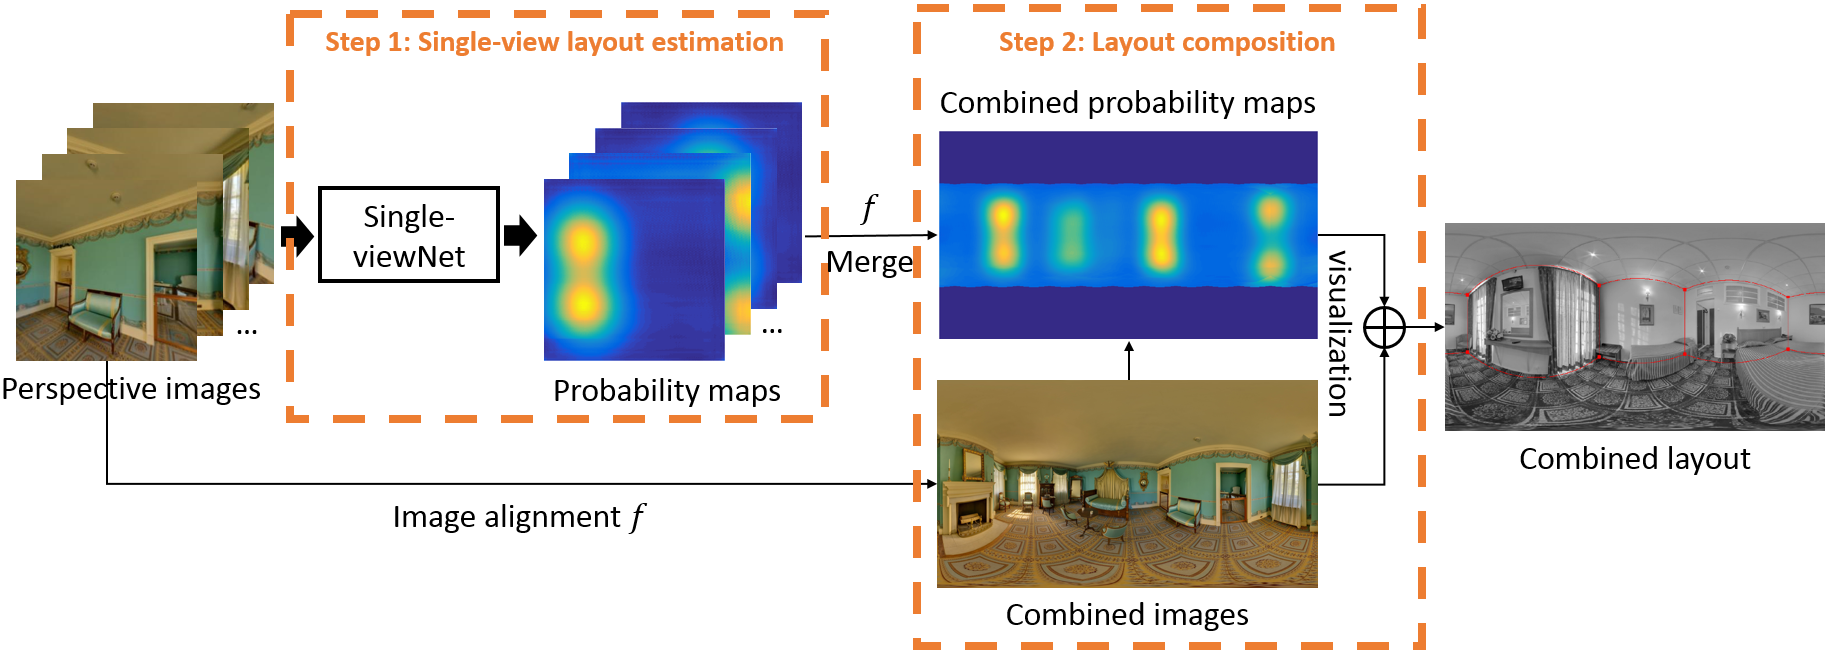
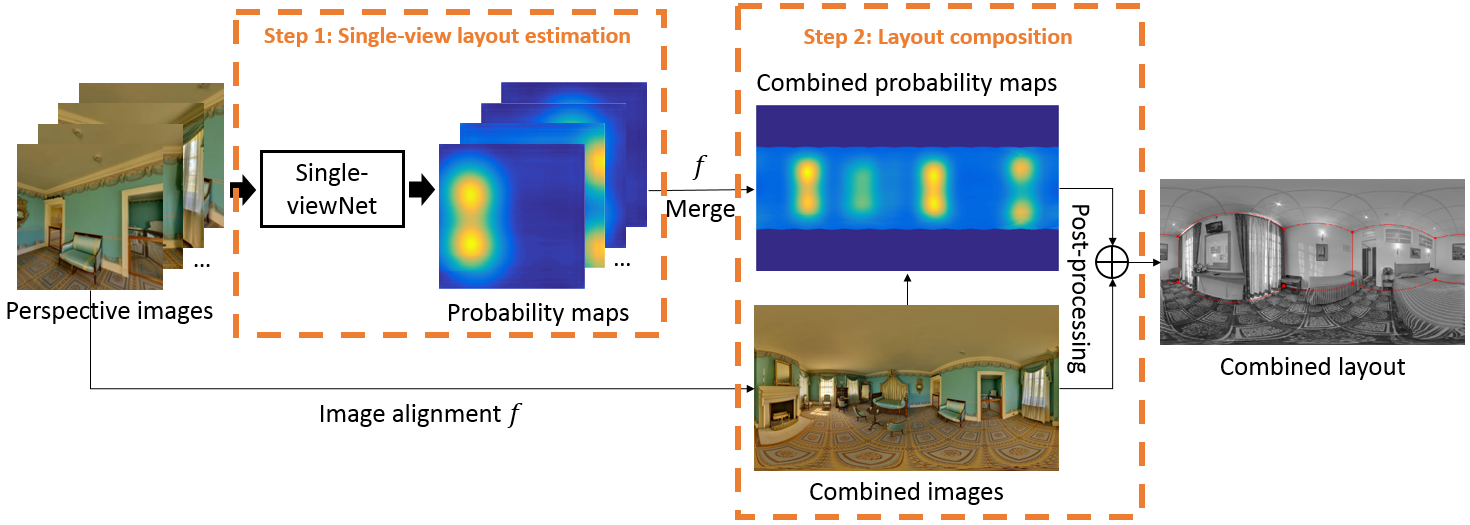
adaptation

diff --git a/paper/approach.tex b/paper/approach.tex
@@ -3,27 +3,28 @@
 
 \xj{introduce the new representation first.}
 \xj{Add a new figure to explain the representation here. Show different room types and our representation. Add a paragraph here.}
-%
-Given multiple overlapping images of an indoor scene from different views, our approach produces the combined room layout represented by several room corners, as shown in Fig. \ref{fig:partial1}. 
 %\xj{Explain more details of this new representation: add a figure. and more constraints? say, there are at most four points on each image? Split them to upper/lower parts?}
+
 Under the Manhattan world assumption \cite{coughlan1999manhattan}, a 3D room can be typically modeled as a cube that can be represented by eight corners.
-The room layout in a single view is the projection of the cube, while only part of it can be visible. 
+The room layout in a single view is the projection of the cube, while only part of it can be visible, as shown in Fig. \ref{fig:representation}(a-c). 
 Intuitively, there should be 0 to 4 room corners visible in a single-view image. 
 %
-%In this section, we are going to recover the room layout for perspective images from different views. 
-Previous DNN-based techniques of room layout estimation typically represent the room layout as a segmentation of semantic surfaces including walls, ceilings and floors~\cite{dasgupta2016delay, ours} or as the semantic boundaries or intersection points among them \cite{ren2016coarse}. 
+Previous DNN-based techniques of room layout estimation typically represent the room layout as a segmentation of semantic surfaces including walls, ceilings and floors~\cite{dasgupta2016delay} or as the semantic boundaries or intersection points among them \cite{ren2016coarse,zhao2017physics,LeeRoomNet17}. 
 %
 These representations have proved valid and reasonable. 
-However, due to the overlaps across views, they all carry too much redundant predictions and are inconvenient for combination under the circumstances of multi-view layout estimation. 
-Out of this reason, we propose a more concise representation of a room layout using the corners only.
-This representation avoids extra efforts on classifying the room layout topology, and can be easily used to integrating multiple views.
 \xj{Why are the previous representation inconvenient? why ours are better? ours are also redundant in multiple views. }
-
+\drf{previous explaination is ambiguous, refined}
+However, they all carry too much redundant predictions that make the combination inconvenient under the circumstances of multi-view layout estimation. Taking the keypoints representation in \cite{LeeRoomNet17} as an example, they need to predict all 6 points in Fig. \ref{fig:representation}(a) first row. But the 4 points on the images boundaries have no semantics in multi-views and are useless for combination. The overlaps across views further exacerbate this problem. Out of this reason, we propose a more concise representation of a room layout using the corners only, as shown in Fig. \ref{fig:representation}(d). 
+This representation avoids extra efforts on classifying the room layout topology, and can be easily used to integrating multiple views.
 %
+
+
 %When the overall FOV of the multi-view images contains the entire room, we can recover the whole-room layout, better viewed in panorama, Fig. \ref{fig:results2}. 
 %
+
 \xj{then pipeline.}
-Fig. \ref{fig:overview} shows the pipeline of our algorithm. 
+Given multiple overlapping images of an indoor scene from different views, our approach produces the combined room layout represented by several room corners, as shown in Fig. \ref{fig:partial2}. The pipeline of our algorithm is depicted in Fig. \ref{fig:overview}. 
+%
 First, we estimate the partial room layout separately in each image using an encoder-decoder structure, as described in Sec. \ref{sec:layout}. 
 Then the estimated partial room layouts are integrated into a combined probability map, based on the geometric transformations between images. 
 We use a linear blending to average the predictions from different views, and select the points of the maximum responses as the room corners, as described in Sec. \ref{sec:merging}. 
@@ -33,9 +34,16 @@ We use a linear blending to average the predictions from different views, and se
 \begin{figure*}[ht]
 	\centering
 	\includegraphics[width=\linewidth]{figs/ppline.png}
-	\caption{Our pipeline consists of two main steps. First, the SVNet is applied to estimate the probability map for each image separately. Secondly, the input multi-view images are composed together according to the \xj{estimated or pre-calibrated?} transformations $f$. We use the same transformations $f$ to generate a combined probability map of the room corners. The final result is obtained by a simple post-processing \xj{no post-processing is shown in the fig.}. }
+	\caption{Our pipeline consists of two main steps. First, the SVNet is applied to estimate the probability map for each image separately. Secondly, the input multi-view images are composed together according to the \xj{estimated or pre-calibrated?} \drf{the camera position is known} transformations $f$. We use the same transformations $f$ to generate a combined probability map of the room corners. The final result is obtained by a simple post-processing. }
 	\label{fig:overview}
 \end{figure*}
+
+\begin{figure}
+	\centering
+	\includegraphics[width=\linewidth]{figs/representation.png}
+	\caption{Two different room types and our new representation. The first three columns are clipped from LSUN specification \cite{zhang2015large} which defines the most common 11 room types. }
+	\label{fig:representation}
+\end{figure}
 
 \subsection{Single-view Layout Estimation}
 \label{sec:layout}
@@ -52,20 +60,18 @@ Obviously, without the extra intersections of two semantic planes on the image b
 %\comments{ motivated by \cite{LeeRoomNet17} and the studies on human pose estimation \cite{tompson2014joint,pfister2015flowing}, we formulate the room corners on the image plane as 2D Gaussian centered at their locations. The standard deviation is set to 40 pixels in our case. \xj{this format is for training, right?}
 %
 
-
+%In this section, we are going to recover the room layout for perspective images from different views. 
 %
-Compared to previous representations, our corner-based representation is quite simplified and easier to train. 
-It also naturally avoids a lot of redundant predictions. 
-\xj{remove all "secondary representation".}
-
-} 
-
-
+%Compared to previous representations, our corner-based representation is quite simplified and easier to train. 
+%It also naturally avoids a lot of redundant predictions. 
+%\xj{remove all "secondary representation".}
+ 
  
 Under our corner-based layout representation, we predict the corner positions for each view separately using a neural network. 
 Considering the inherent semantic differences, we divide the room corners into two categories: the upper corners which are the intersection of two walls and ceiling, and the lower corners which are the intersection of two walls and floor. 
 In consequence, the goal of our single-view net should be estimating the probability maps of these two types of room corners for the input image.
 
+\noindent\textbf{Network Architecture.}
 We adopt the encoder-decoder architecture proposed by \cite{LeeRoomNet17} with modifications, since it is an end-to-end framework without complex post-processing. 
 %
 Our layout estimation network for a single-view image, called SVNet, is shown in Fig.~\ref{fig:network}. 
@@ -88,18 +94,16 @@ Therefore, we remove the classification branch in our network architecture.
 \end{figure}
 
 \noindent\textbf{Training.} 
-
-
 While our method could take multiple images under different view directions of arbitrary field of view, we generate our training dataset using the PanoContext dataset \cite{zhang2014panocontext} and relabeled Stanford 2D-3D dataset \cite{layoutnet} to generate multi-view images for training. 
 The PanoContext dataset contains 500 annotated panoramic images. We project these panorama into multiple $320 \times 320$ images at different views using the toolkit provided by \cite{zhang2014panocontext}. 
-\xj{The number of views in the training? }
+\xj{The number of views in the training? } \drf{we use different views for different settings (in the experiments), so i didn't mention it here.}
 
 The ground truth locations of the room corners are obtained using the same transformations and are further transformed into the Gausian representation. 
 While the output is a probability map, we produce the ground-truth map for each image by generating a 2D Gaussian centered at the location of each groundtruth corner with $\sigma=40$ pixels, similar with \cite{LeeRoomNet17,tompson2014joint,pfister2015flowing}.
 %
 Euclidean loss is used to regress the probability map of room corners. 
 Because the background area is much larger than the corner areas in the probability maps, we adjust the distribution imbalance between foreground and background pixels by degrading the gradient weight of background pixels with a coefficient of 0.2.
-\xj{Training parameters?}
+\xj{Training parameters?} \drf{Adam is adopted as the optimizer to train the model with batch size 5, initial learning rate 0.00001 and maximum iterations 40000.}
 
 %To obtain multiple overlapping perspective images, we project the panoramic images into different views using the toolkit provided by \cite{pano}. The ground truth of the secondary keypoints is represented by several 2D Gaussian heatmaps centered at their locations. We adjust the distribution imbalance between foreground and background pixels by degrading the gradient weight of background pixels with a coefficient of 0.2.
 
@@ -116,13 +120,14 @@ After we predict the probability maps of the room corners for each image, we the
 First, we align the input images under different views by estimating the transformation $f$ between image plane and the composition image plane. 
 %First, the input multi-view images are projected into a combined image using the camera poses, we formulate this view transformations as a function $f$. 
 Then, we sum over the third dimension \xj{why third dimension?} of the probability array $T$ for each image to get a heatmap $\hat{T}$ depicting all included room corners. 
-Next, we use the same mapping function $f$ to map the heatmap $\hat{T}$ from different views into the composition image plane. 
-A linear blending along horizontal lines \xj{why along horizontal lines?} is applied to average the predictions of the overlapping area between different views, as shown in Fig. \ref{fig:blending}. 
+Next, we use the same mapping function $f$ to map the heatmap $\hat{T}$ from different views into the composition image plane.
+%
 \xj{Explain the different between two subfigures. }
+The combined heatmap generated by simply averaging the heatmaps of different views contains many visual boundaries as the data distribution differs in different views, as shown in Fig. \ref{fig:blending}(a). To smooth the combined probability map, a linear blending \xj{why along horizontal lines?} \drf{not always horizontal, it depends on the position of two overlapping images}is applied to average the predictions of the overlapping area between different views, as shown in Fig. \ref{fig:blending}(b). 
 
 %
 After that, we pick the points with the maximum responses as the room corners. 
-At this stage, we first reduce the noise in $\hat{T}$ caused by unsatisfactory predictions from particular perspectives \xj{how to reduce the noise?}.
+At this stage, we first reduce the noise in $\hat{T}$ caused by unsatisfactory predictions from particular perspectives. \xj{how to reduce the noise?} \drf{calculate the LOG response and ...}
 We calculate the LOG response of $\hat{T}$ at a certain scale (depending on the radius of the room corners), $\sigma$ is set to 21 in our case, and use the LOG response as our new heatmap.
 %
 Then, we follow the post-processing method in \cite{zou2018layoutnet} to obtain the locations of the room corners in the combined heatmap. In brief, the combined heatmap is summed across rows to find $m$ local maxima for columns, then $n$ largest peaks are found along each of the $m$ columns. In this way, we attain the locations of $m \times n$ room corners. In the case of panorama, $m$ is set to 4 and $n$ is set to 2. The whole room layout can be reconstructed by connecting these eight keypoints. 

diff --git a/paper/results.tex b/paper/results.tex
@@ -70,7 +70,7 @@ The quantitative results in Tab. \ref{tab:PC} demonstrate that larger FOV contri
 \end{table}
 
 \section{Conclusions}
-In this paper, we propose a method to estimate the combined room layout based on multiple views. We design a \emph{secondary representation} for the room layout in the perspective image to simplify the learning process. Then we integrate the predicted room layout from different perpectives into a combined prediction using view transformations and a fusion strategy. The multi-view images can supplement each other and generate more accurate predicitons. We also achieve performance close to the panorama based methods on a panorama dataset. It is an encouraging attempt to estimate the room layout with larger FOV using multi-view images.
+In this paper, we propose a method to estimate the combined room layout based on multiple views. We design a concise representation for the room layout in the perspective image to simplify the learning process. Then we integrate the predicted room layout from different perpectives into a combined prediction using view transformations and a fusion strategy. The multi-view images can supplement each other and generate more accurate predicitons. We also achieve performance close to the panorama based methods on a panorama dataset. It is an encouraging attempt to estimate the room layout with larger FOV using multi-view images.
 
 \comments{
 \begin{acks}
